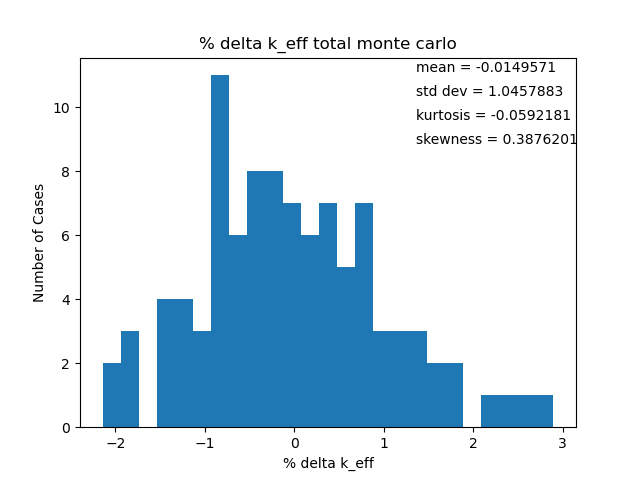
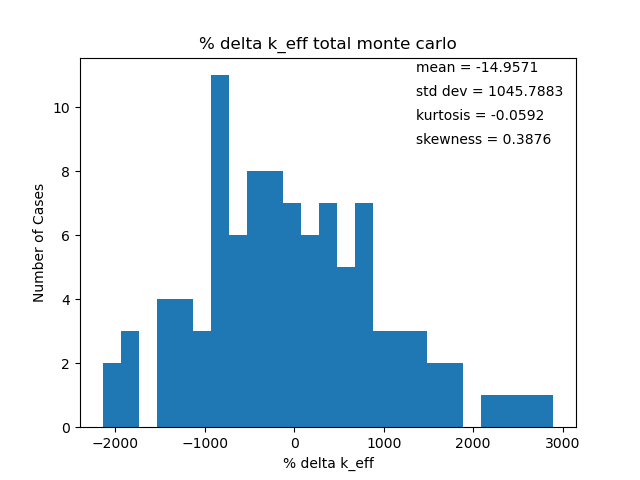
plott

diff --git a/Openmc_godiva/Openmc_delta_keff.py b/Openmc_godiva/Openmc_delta_keff.py
@@ -13,7 +13,7 @@ delta_keff=np.array([-0.00863895703995865, -0.0004270116145389524, 0.00343171460
 
 keff=[0.993483547695236, 0.9848445906552773, 0.993056536080697, 0.9969152623052357, 1.0222773244132581, 0.99129723700506, 1.0074626150974215, 1.0156096697704946, 0.9896179099642926, 1.0048249609716902, 1.008722467757456, 0.981650339848005, 0.9847009188919944, 0.9913153841640064, 0.9810371245771164, 1.0068974817306608, 1.011586752193859, 0.9928370986961789, 0.9747081655369669, 0.9913736610195057, 0.9851482613624528, 1.0053380025208898, 0.9863162456495739, 0.9750650778656946, 1.007364869527841, 1.009980937076952, 1.0022293422763227, 0.9843970144937214, 0.984611025306728, 0.9798904069323177, 0.9977126319903982, 0.9955560751507864, 0.9743741048675774, 0.9861482889536495, 0.9884744295340231, 0.9955247424118701, 0.9853261216818416, 0.9956071940574872, 1.0038494690747877, 0.9872930784807287, 0.9721797791514606, 0.9988051695832451, 0.9943849681044673, 1.0016330018318316, 0.994557629975029, 0.980831961430732, 0.9816074632774988, 1.0021483468215346, 1.0118771978585148, 0.9908889194059682, 0.9891376225109548, 0.9971704649908261, 0.9935707415713834, 0.9998501888915645, 0.9974038942723458, 1.0173815222617706, 0.9797026110130974, 0.9956385073604264, 0.9836822017591098, 1.004472575509619, 0.9978022797307452, 1.0021483468214525, 0.9882451277326086, 0.9881548008629027, 1.0017915595667417, 0.9874064397480403, 0.9864959321248534, 1.0040010410087339, 1.0014889043485755, 0.9730940277767974, 0.9794884596880179, 0.9789291138426648, 0.9870817091271217, 0.992770471591675, 0.9911166949202801, 0.9942148684042127, 0.9856568350892684, 0.9911187301576214, 0.9917416427048492, 0.9887608848765963, 0.9851685163952923, 0.9976565363546788, 1.0039497512581437, 0.98619627000525, 0.983906462292666, 0.9829397994900003, 0.9898071573444349, 0.999762175614594, 0.9899995022574481, 0.9929405183364374, 1.018665907200865, 0.9845744597715519, 0.9979274952268886, 0.9914990352547167, 1.0001948023911127, 1.0013496965327304, 0.9925682338480755, 0.9900319469314077, 0.998311555752485]
 
-delta_keff=delta_keff/keff[0]*100
+delta_keff=delta_keff/keff[0]*10**5
 print(np.std(delta_keff))
 print(np.mean(delta_keff))
 std_dev=np.std(delta_keff)
@@ -28,9 +28,9 @@ plt.hist(delta_keff, bins=25, density=False)
 plt.title(f'% delta k_eff total monte carlo')
 plt.xlabel('% delta k_eff')
 plt.ylabel('Number of Cases')
-plt.figtext(.65, .85, f"mean = {round(mean,7)}")
-plt.figtext(.65, .8, f"std dev = {round(std_dev,7)}")
-plt.figtext(.65, .75, f"kurtosis = {round(kurt,7)}")
-plt.figtext(.65, .7, f"skewness = {round(skewness,7)}")
+plt.figtext(.65, .85, f"mean = {round(mean,4)}")
+plt.figtext(.65, .8, f"std dev = {round(std_dev,4)}")
+plt.figtext(.65, .75, f"kurtosis = {round(kurt,4)}")
+plt.figtext(.65, .7, f"skewness = {round(skewness,4)}")
 plt.savefig('Openmc_hist.png')
 plt.clf()

diff --git a/Main_rev_interp.py b/Main_rev_interp.py
@@ -21,11 +21,13 @@ def ace_directory(dir=0):
     """
     if dir==0:
         try:
+            #Makes a Tkinter windows so a directory can be chosen
             root = Tk()
             root.withdraw()
             directory = filedialog.askdirectory()
             print("Selected directory: ", directory)
         except:
+            #If Tkinter does not work, write directory as string
             print("Tkinter is not available. Please enter the directory path manually:")
             directory = input()
         return directory
